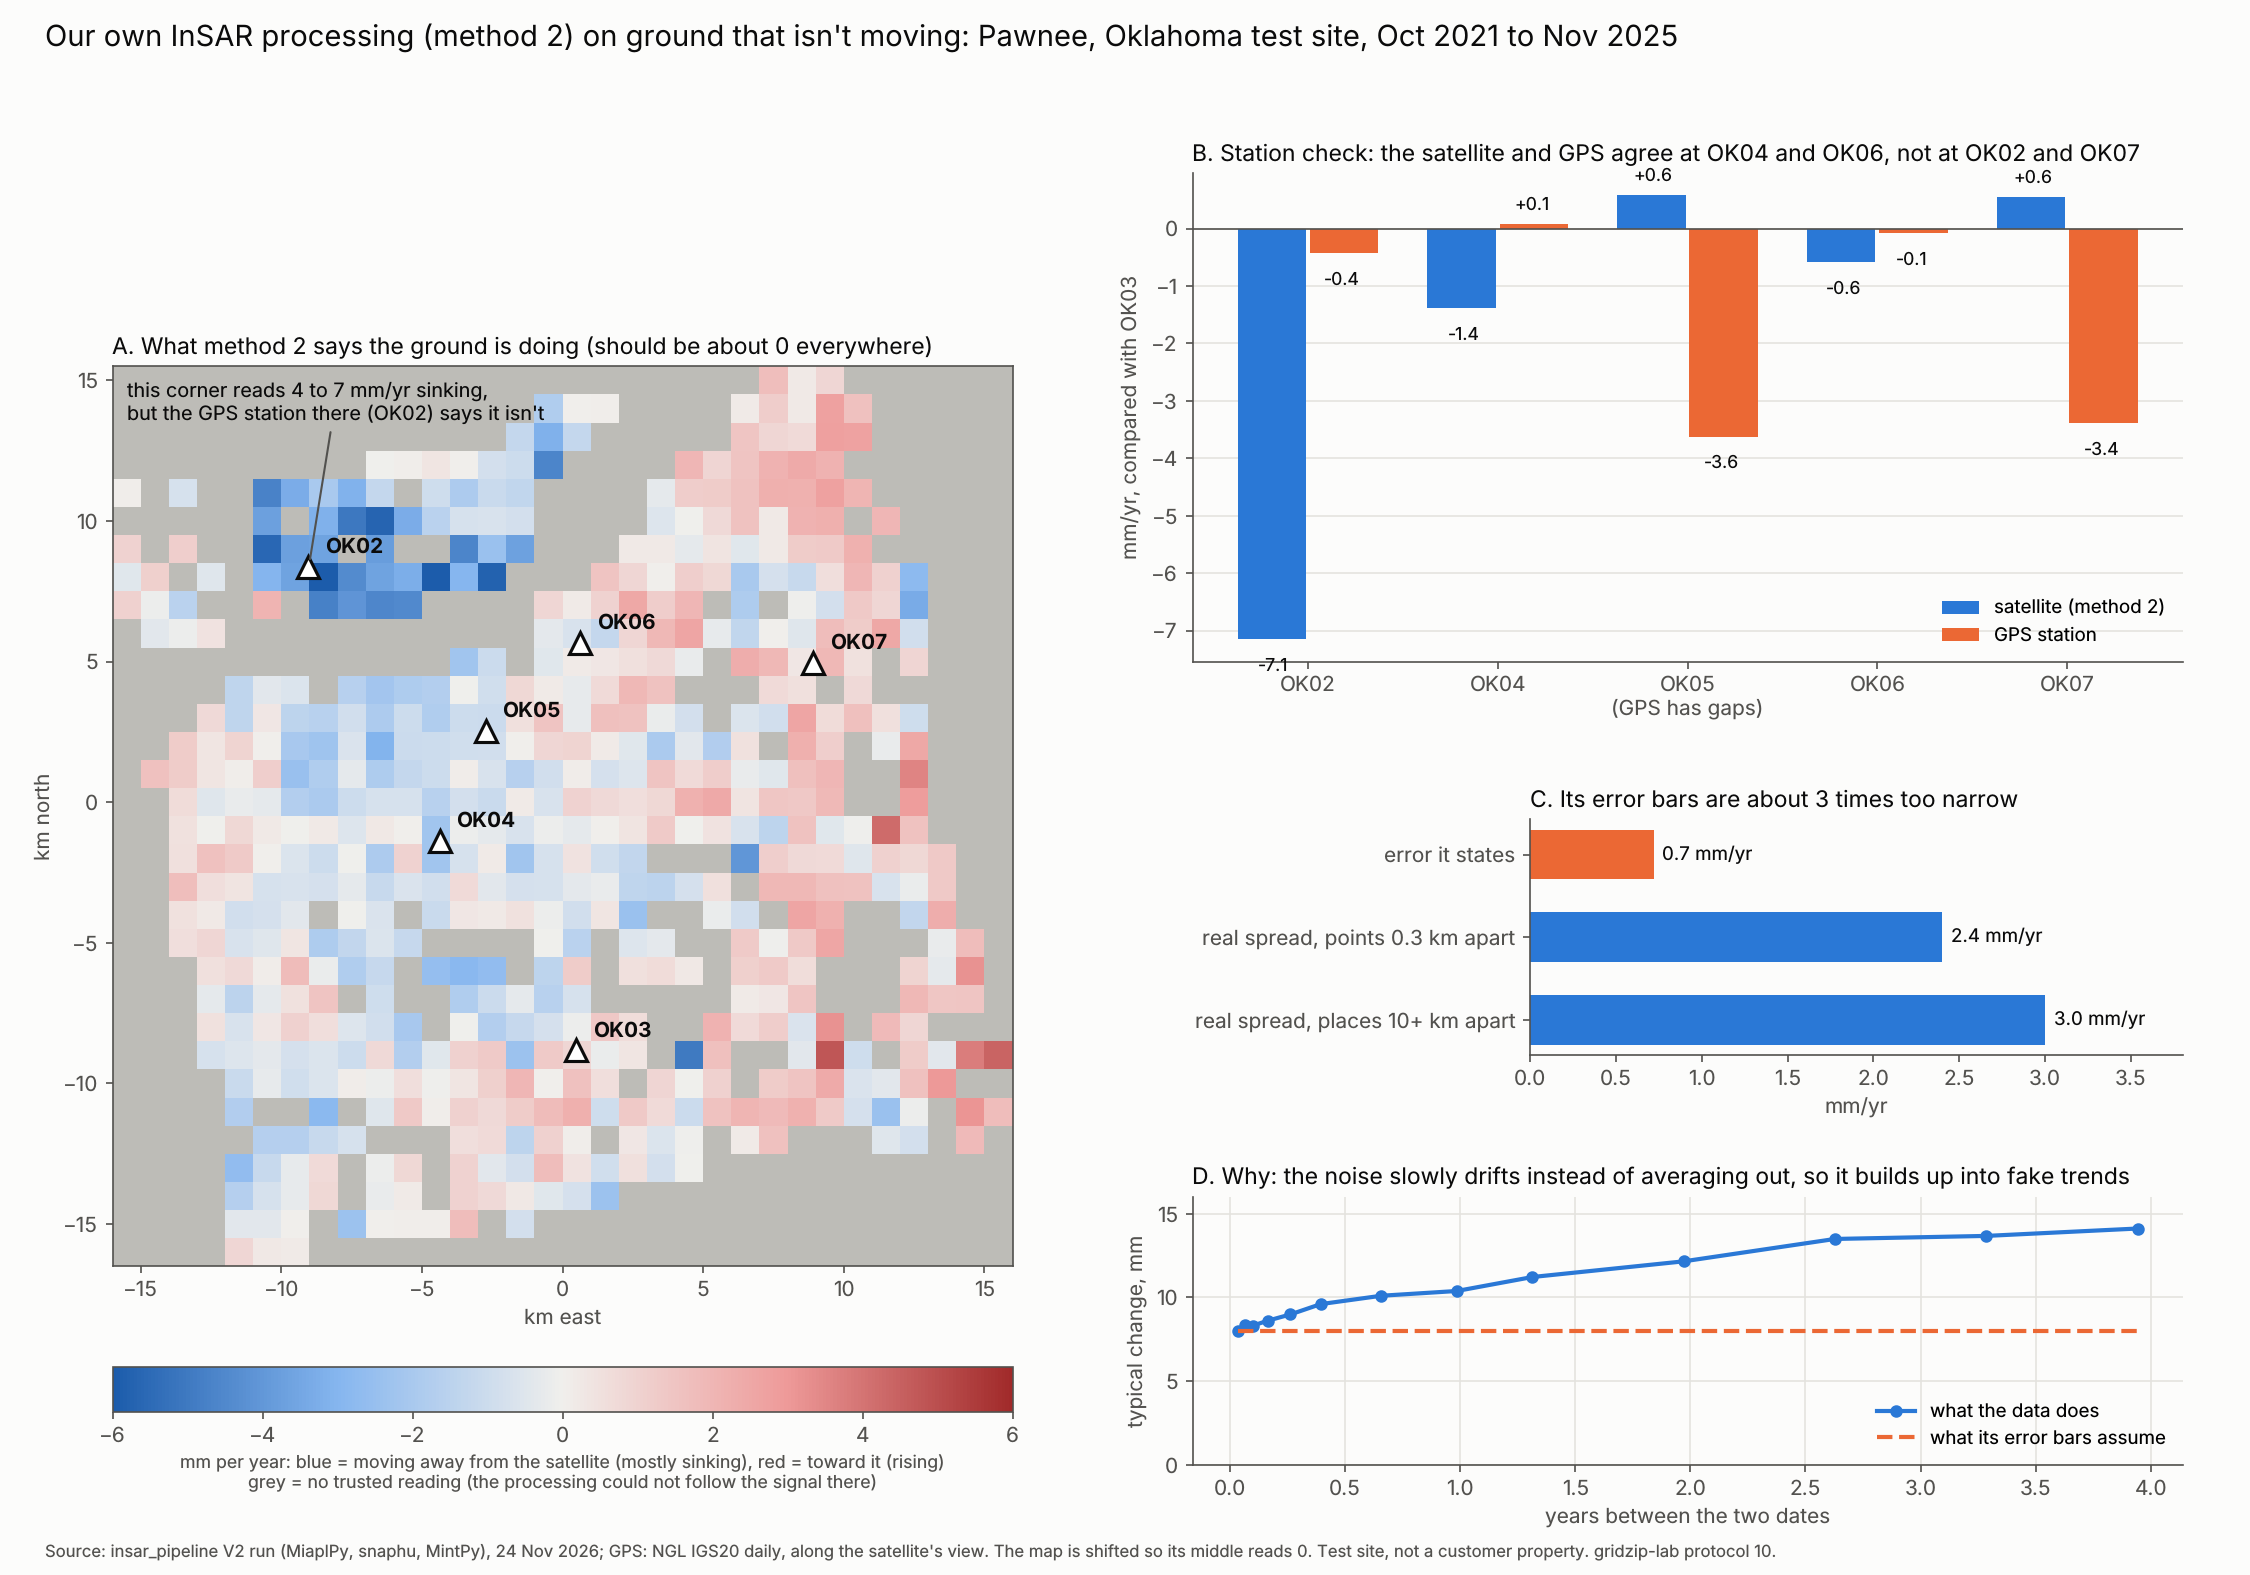
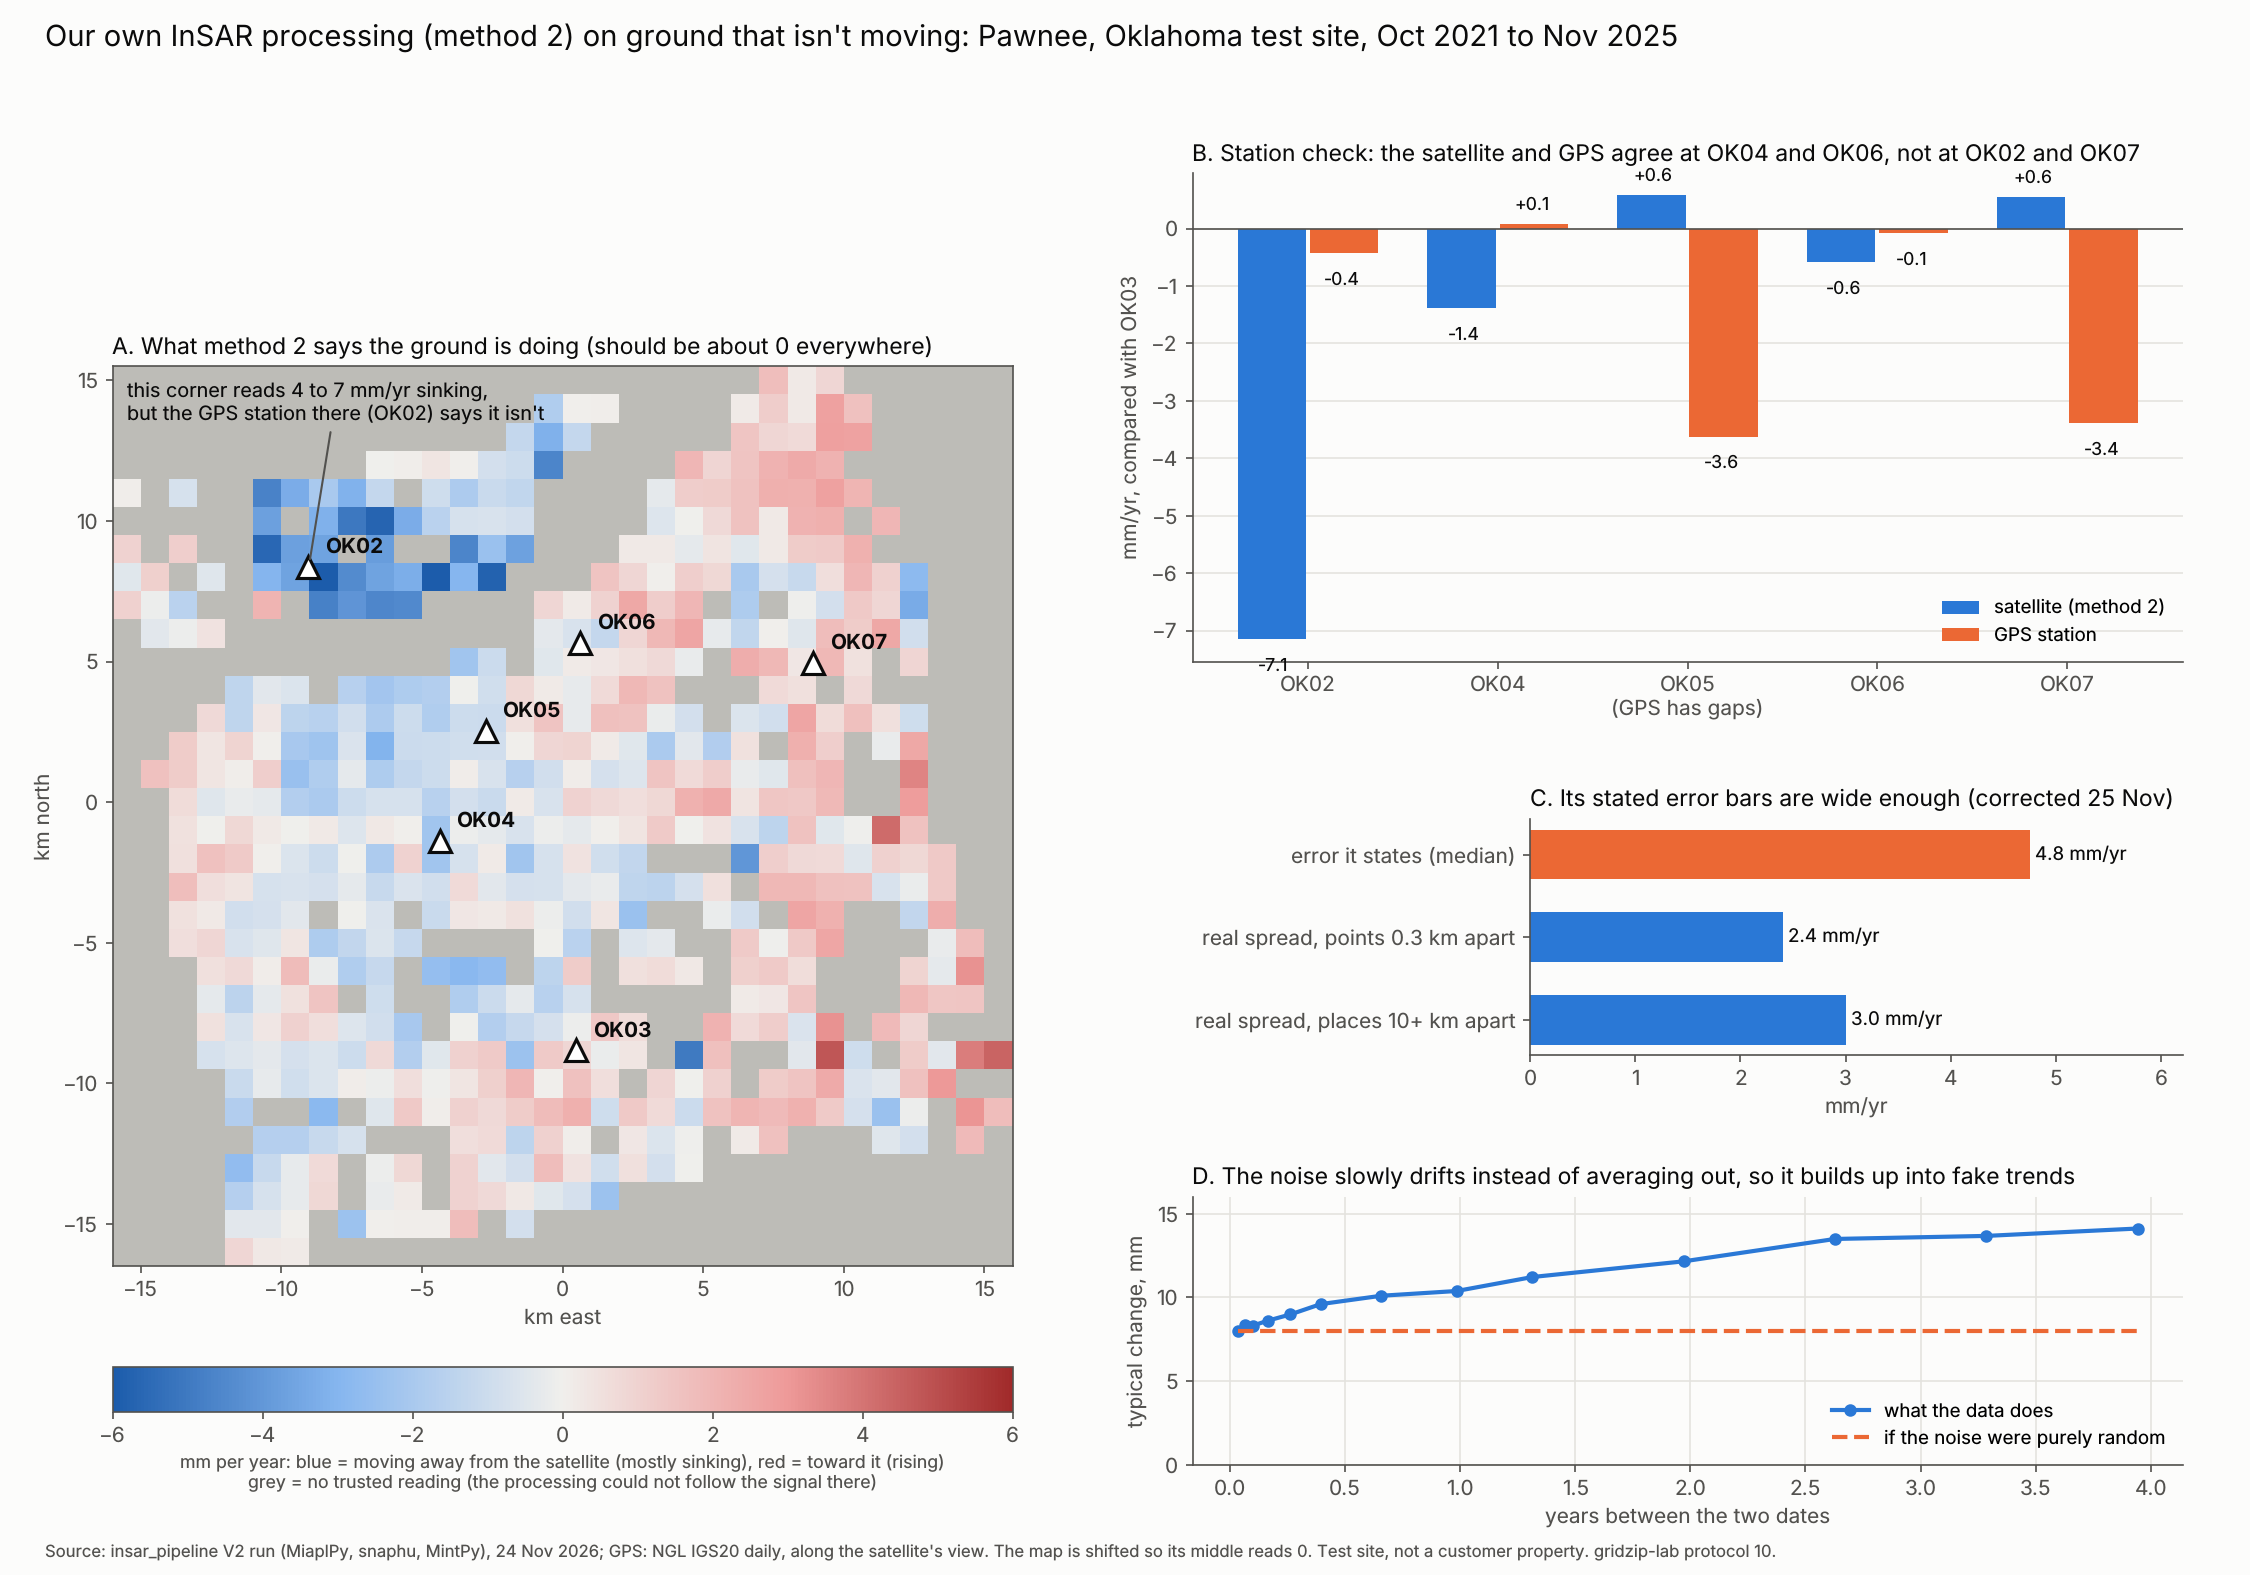
Findings 10: correct the error-bar reading (formal floor, not the stated sigma); figure panel C fixed
Claude-Session: https://claude.ai/code/session_01LYT5Q8dnQjW9upggPZ4Kis

diff --git a/physics/figures10.py b/physics/figures10.py
@@ -55,22 +55,22 @@ def main(out):
         ax.text(xi + w / 2, b + (0.25 if b >= 0 else -0.55), f"{b:+.1f}", ha="center", fontsize=8.5, color=INK)
     # C error bars
     ax = fig.add_axes([0.68, 0.33, 0.29, 0.15]); ax.set_facecolor("#fcfcfb")
-    labs = ["error it states", "real spread, points 0.3 km apart", "real spread, places 10+ km apart"]; vals = [0.72, 2.4, 3.0]
+    labs = ["error it states (median)", "real spread, points 0.3 km apart", "real spread, places 10+ km apart"]; vals = [4.75, 2.4, 3.0]
     ax.barh(range(3)[::-1], vals, color=[ORANGE, BLUE, BLUE], height=0.6)
     for k, (l, vv) in enumerate(zip(labs, vals)): ax.text(vv + 0.05, 2 - k, f"{vv:.1f} mm/yr", va="center", fontsize=9, color=INK)
-    ax.set_yticks(range(3)[::-1], labs); ax.set_xlim(0, 3.8); ax.set_xlabel("mm/yr")
+    ax.set_yticks(range(3)[::-1], labs); ax.set_xlim(0, 6.2); ax.set_xlabel("mm/yr")
     for s in ("top", "right"): ax.spines[s].set_visible(False)
-    ax.set_title("C. Its error bars are about 3 times too narrow", loc="left", fontsize=11, color=INK)
+    ax.set_title("C. Its stated error bars are wide enough (corrected 25 Nov)", loc="left", fontsize=11, color=INK)
     # D lag
     ax = fig.add_axes([0.53, 0.07, 0.44, 0.17]); ax.set_facecolor("#fcfcfb")
     Y = D["series_mm"][v][::4]; Y = Y - np.median(Y, 0); lags = [1, 2, 3, 5, 8, 12, 20, 30, 40, 60, 80, 100, 120]
     rms = [np.sqrt(np.mean((Y[:, k:] - Y[:, :-k]) ** 2)) for k in lags]; days = np.array(lags) * 12 / 365.25
     ax.plot(days, rms, color=BLUE, lw=2, marker="o", ms=5, label="what the data does")
-    ax.plot(days, [rms[0]] * len(days), color=ORANGE, lw=2, ls="--", label="what its error bars assume")
+    ax.plot(days, [rms[0]] * len(days), color=ORANGE, lw=2, ls="--", label="if the noise were purely random")
     ax.set_xlabel("years between the two dates"); ax.set_ylabel("typical change, mm"); ax.grid(color=GRID_C); ax.set_ylim(0, 16)
     for s in ("top", "right"): ax.spines[s].set_visible(False)
     ax.legend(frameon=False, loc="lower right", fontsize=9)
-    ax.set_title("D. Why: the noise slowly drifts instead of averaging out, so it builds up into fake trends", loc="left", fontsize=11, color=INK)
+    ax.set_title("D. The noise slowly drifts instead of averaging out, so it builds up into fake trends", loc="left", fontsize=11, color=INK)
     fig.text(0.02, 0.012, "Source: insar_pipeline V2 run (MiaplPy, snaphu, MintPy), 24 Nov 2026; GPS: NGL IGS20 daily, along the satellite's view. "
              "The map is shifted so its middle reads 0. Test site, not a customer property. gridzip-lab protocol 10.", fontsize=8, color=INK2)
     fig.savefig(out, dpi=150); print(out)

diff --git a/physics/FINDINGS-10.md b/physics/FINDINGS-10.md
@@ -1,5 +1,13 @@
 # Findings 10: method 2 (V2 Pawnee) on stable ground (protocol 10, A1, A2; 24 Nov 2026)
 
+> **Correction (25 Nov 2026).** The "error bars about 3× too small" reading below is wrong. The table's
+> `sigma_mm_yr` was MintPy's formal white-noise `velocityStd` (median 0.72), not the pipeline's stated 1-sigma.
+> The stated sigma is an empirical split-half figure from far-field cells, by coherence class (median 4.75 mm/yr;
+> `data/insar_m2/v2_stated_sigma.npz`, 9d4a7da). Against the 2.3 to 2.4 mm/yr seen between neighbouring cells it
+> is wide, not narrow, and V2's calibration row passes (6 of 6). The lag-structure reading (temporally correlated
+> noise) stands; only the comparison with the formal floor misled. Part D's sigma medians are also formal values for
+> both methods. What fails V2 is the false-rate field (the OK02 patch): pair share and the noise benchmark.
+
 Data: `data/insar_m2/v2_pawnee_points.npz` (cd9ceab). Script: `python -m physics.insar_m2 [synth|A|B|C]`;
 results in `results/physics/insar_m2.json`; figure `physics/figures/p10_method2_pawnee.png` (`physics/figures10.py`).
 V2 is spent data. Nothing here is evidence that method 2 passes.
